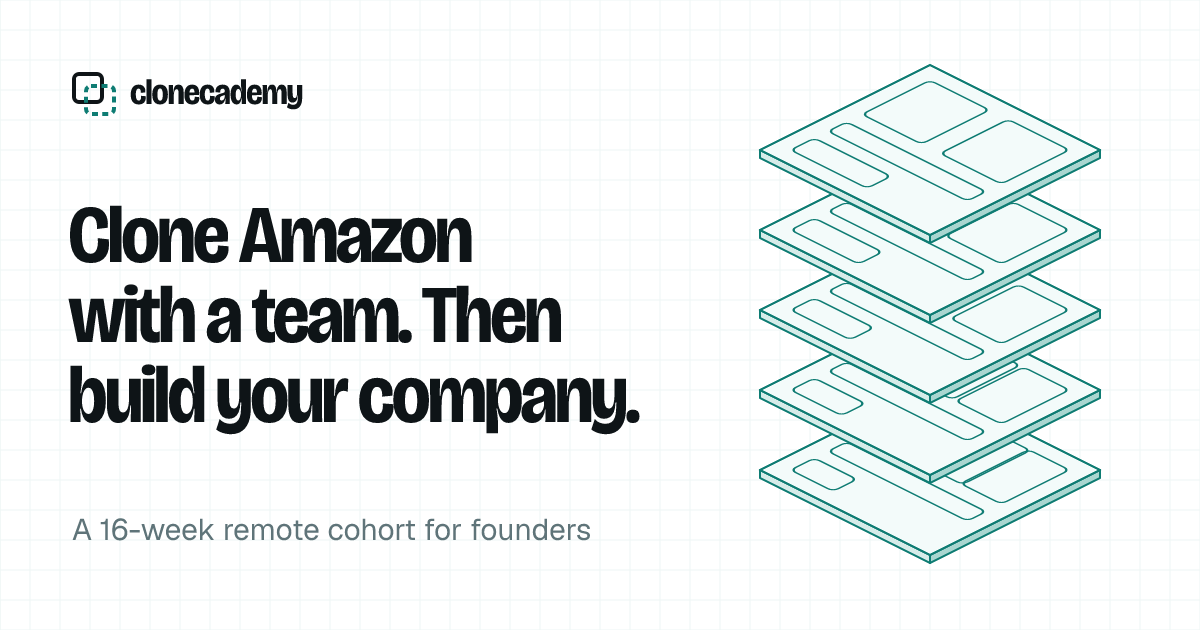
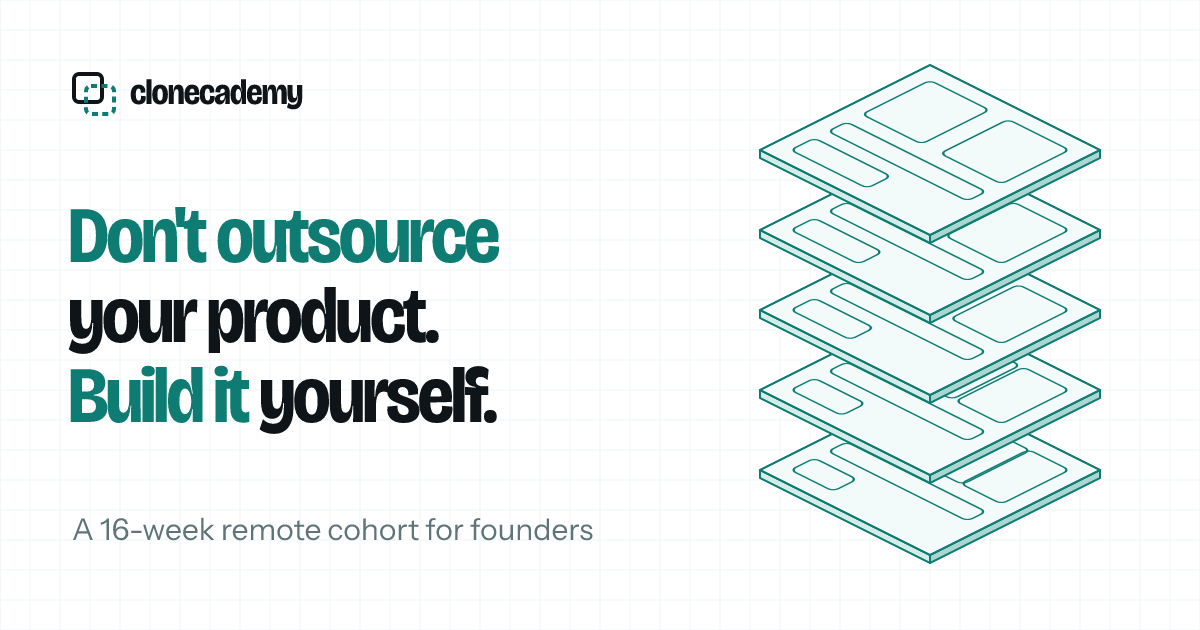
feat: sharpen the hero copy, restore Bricolage type and animate project teardowns (#2)
* fix(copy): use American English spelling and idiom throughout

* feat(copy): lead with founder outcomes in headlines and calls to action

* feat(copy): replace the hero headline with the outsourcing pitch

* style: switch display type to Archivo and highlight the hero's key phrases

* style: set display type in Familjen Grotesk, closer to the original grotesque

* style: restore Bricolage Grotesque display type and pair it with Instrument Sans

* feat(copy): tighten the hero and team intro

* feat(content): replace draft alumni startups with Parkbnb, SRSly, Anonymedia and SoloFeed

* feat(copy): frame the hero subhead as a startup apprenticeship

* feat(copy): say the hero clones industry leaders

* feat(copy): simplify the hero subhead

* feat(projects): animate the project teardowns as they scroll into view

* feat(copy): change the hero headline to "Don't outsource your product"

---------

Changed region(s): [[0.0308, 0.4524, 0.555, 0.6937], [0.0308, 0.3317, 0.4317, 0.4222], [0.0617, 0.8143, 0.4933, 0.8746]]

diff --git a/src/data/outcomes.ts b/src/data/outcomes.ts
@@ -9,31 +9,33 @@ export const stats = [
 
 export const alumniProducts = [
 	{
-		name: "Tallyroom",
-		summary: "Room booking and billing for independent co-working spaces.",
+		name: "Parkbnb",
+		summary:
+			"Airbnb for parking: drivers book spare driveways and garages by the hour.",
 		cohort: 2,
 		clone: "Amazon",
 		status: "Paying customers in 3 cities",
 	},
 	{
-		name: "Fieldnote",
+		name: "SRSly",
 		summary:
-			"Voice notes that turn site visits into structured reports for builders.",
+			"AI-native flashcards on FSRS: it writes your cards and schedules every review.",
 		cohort: 3,
 		clone: "Instagram",
 		status: "Raised a pre-seed round",
 	},
 	{
-		name: "Pantry Loop",
+		name: "Anonymedia",
 		summary:
-			"A marketplace for restaurants to sell surplus stock to each other.",
+			"Social media without accounts. Post, reply and follow with no sign-up.",
 		cohort: 3,
 		clone: "Amazon",
 		status: "Live in beta",
 	},
 	{
-		name: "Kinfolk Circles",
-		summary: "Private photo sharing for extended families, without the feed.",
+		name: "SoloFeed",
+		summary:
+			"One-player social media: a feed with an audience of one, for posting without performing.",
 		cohort: 4,
 		clone: "Instagram",
 		status: "2,000 weekly active users",

diff --git a/src/data/program.ts b/src/data/program.ts
@@ -42,7 +42,7 @@ export const week = [
 	{
 		title: "Code review",
 		detail:
-			"Every pull request is reviewed by an engineer within one working day, plus peer review from your team.",
+			"Every pull request is reviewed by an engineer within one business day, plus peer review from your team.",
 	},
 	{
 		title: "Office hours",
@@ -55,11 +55,11 @@ export const teamOptions = [
 	{
 		title: "Get matched",
 		detail:
-			"Enrol in one role and we'll place you on a team with one founder from each of the other three roles, matched by time zone and the kind of company you want to build.",
+			"Enroll in one role and we'll place you on a team with one founder from each of the other three roles, matched by time zone and the kind of company you want to build.",
 	},
 	{
 		title: "Bring your team",
 		detail:
-			"Enrol with your cofounders, one per role, and learn together as a team. Teams of four get a discount on every seat.",
+			"Enroll with your cofounders, one per role, and learn together as a team. Teams of four get a discount on every seat.",
 	},
 ];

diff --git a/src/data/testimonials.ts b/src/data/testimonials.ts
@@ -5,7 +5,7 @@ export const testimonials = [
 		quote:
 			"I'd paid two agencies to build our MVP and couldn't read a line of what they wrote. Four months later I shipped our booking flow myself, and I finally know what I'm hiring for.",
 		name: "Adaeze Okafor",
-		detail: "Frontend, Cohort 2. Founder of Tallyroom",
+		detail: "Frontend, Cohort 2. Founder of Parkbnb",
 	},
 	{
 		quote:
@@ -17,7 +17,7 @@ export const testimonials = [
 		quote:
 			"I came in scared of AWS bills. I left with our whole stack in Terraform and a budget alert I've never had to worry about.",
 		name: "Priya Raman",
-		detail: "Cloud, Cohort 3. Cofounder of Fieldnote",
+		detail: "Cloud, Cohort 3. Cofounder of SRSly",
 	},
 	{
 		quote:

diff --git a/src/data/site.ts b/src/data/site.ts
@@ -4,7 +4,7 @@ export const site = {
 	name: "Clonecademy",
 	url: "https://clonecademy.com",
 	description:
-		"A 16-week remote cohort where founders learn frontend, backend, cloud or AI by cloning a real product with a team, then shipping their own.",
+		"The coding bootcamp for founders. In 16 weeks, learn frontend, backend, cloud or AI engineering by shipping an Amazon or Instagram clone with a team, then launch your own product.",
 	// TODO: confirm the legal entity name.
 	company: "Appiah & Co.",
 	founder: "Karthik G. Appiah",

diff --git a/src/data/faq.ts b/src/data/faq.ts
@@ -39,7 +39,7 @@ export const faq = [
 			{
 				question: "How are teams formed?",
 				answer:
-					"By default we match you with one founder from each of the other roles, by time zone and the kind of company you're building. You can also enrol with your own cofounders as a team.",
+					"By default we match you with one founder from each of the other roles, by time zone and the kind of company you're building. You can also enroll with your own cofounders as a team.",
 			},
 			{
 				question: "What if a teammate drops out?",

diff --git a/src/styles/app.css b/src/styles/app.css
@@ -4,7 +4,7 @@
 @custom-variant dark (&:is(.dark *));
 
 @theme inline {
-	--font-sans: var(--font-geist);
+	--font-sans: var(--font-instrument);
 	--font-heading: var(--font-bricolage);
 	--font-mono: var(--font-geist-mono);
 	--color-ink: var(--ink);
@@ -175,6 +175,7 @@
 		font-variation-settings:
 			"opsz" 96,
 			"wdth" 88;
+		font-weight: 700;
 		letter-spacing: -0.035em;
 		line-height: 0.95;
 	}

diff --git a/src/content/posts/why-we-clone.md b/src/content/posts/why-we-clone.md
@@ -12,13 +12,13 @@ The other option is to build your own idea straight away. Founders love this, an
 
 A clone fixes both problems. Amazon and Instagram are big enough to need every part of a modern stack, from mobile apps to payments to machine learning. And everyone on your team already knows how they should behave.
 
-When your cart forgets an item, nobody argues about whether that's a feature. You open Amazon, see what it does, and go back to fixing your code. The product decisions are made for you, so all your attention goes on engineering.
+When your cart forgets an item, nobody argues about whether that's a feature. You open Amazon, see what it does, and go back to fixing your code. The product decisions are made for you, so all your attention goes to engineering.
 
 ## Why a team
 
 A clone of Amazon is too big for one person in nine weeks, and that's deliberate. Each of the four roles owns one part and depends on the others. Frontend waits on an API. The API waits on a schema. Everything waits on a deploy.
 
-Learning to hand work to each other, to agree an API contract and review each other's pull requests, is what makes this feel like a startup instead of a course.
+Learning to hand work to each other, to agree on an API contract and review each other's pull requests, is what makes this feel like a startup instead of a course.
 
 ## Then your own
 

diff --git a/src/content/posts/inside-a-sprint.md b/src/content/posts/inside-a-sprint.md
@@ -8,7 +8,7 @@ Sprint two of the Amazon clone has one goal: a buyer can pay a real seller with 
 
 ## Monday: planning
 
-The team starts by agreeing the API contract for checkout. What does the cart look like? What happens if stock runs out between adding to the cart and paying? This conversation takes longer than anyone expects, and it's the most valuable hour of the sprint.
+The team starts by agreeing on the API contract for checkout. What does the cart look like? What happens if stock runs out between adding to the cart and paying? This conversation takes longer than anyone expects, and it's the most valuable hour of the sprint.
 
 ## The backend seat
 

diff --git a/src/content/roles/ai-ml.md b/src/content/roles/ai-ml.md
@@ -28,4 +28,4 @@ outcomes:
 
 AI/ML engineers own the parts of the product that learn. On a cohort team you build generative AI features and AutoML models, serve them from a small Python service, and work with the backend team to put them in front of users.
 
-The job is as much judgement as code: you'll learn to tell a demo from a feature, and to prove it with an evaluation instead of a vibe.
+The job is as much judgment as code: you'll learn to tell a demo from a feature, and to prove it with an evaluation instead of a vibe.
